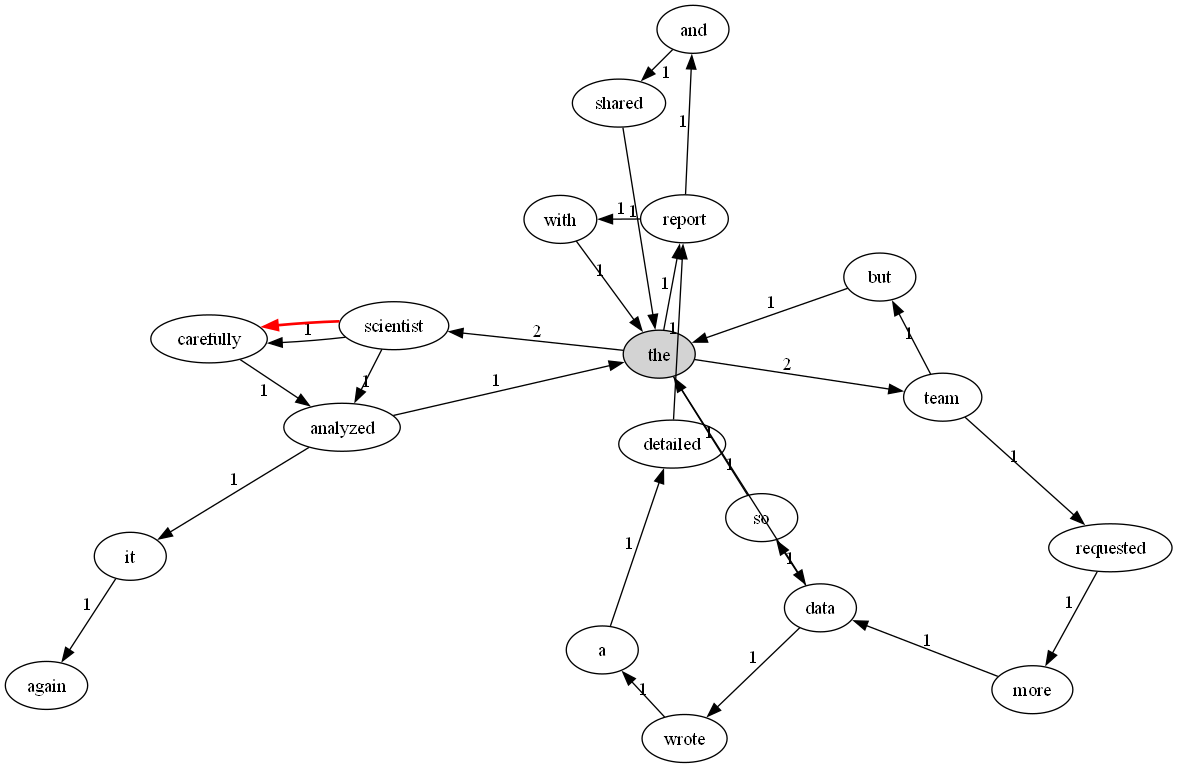
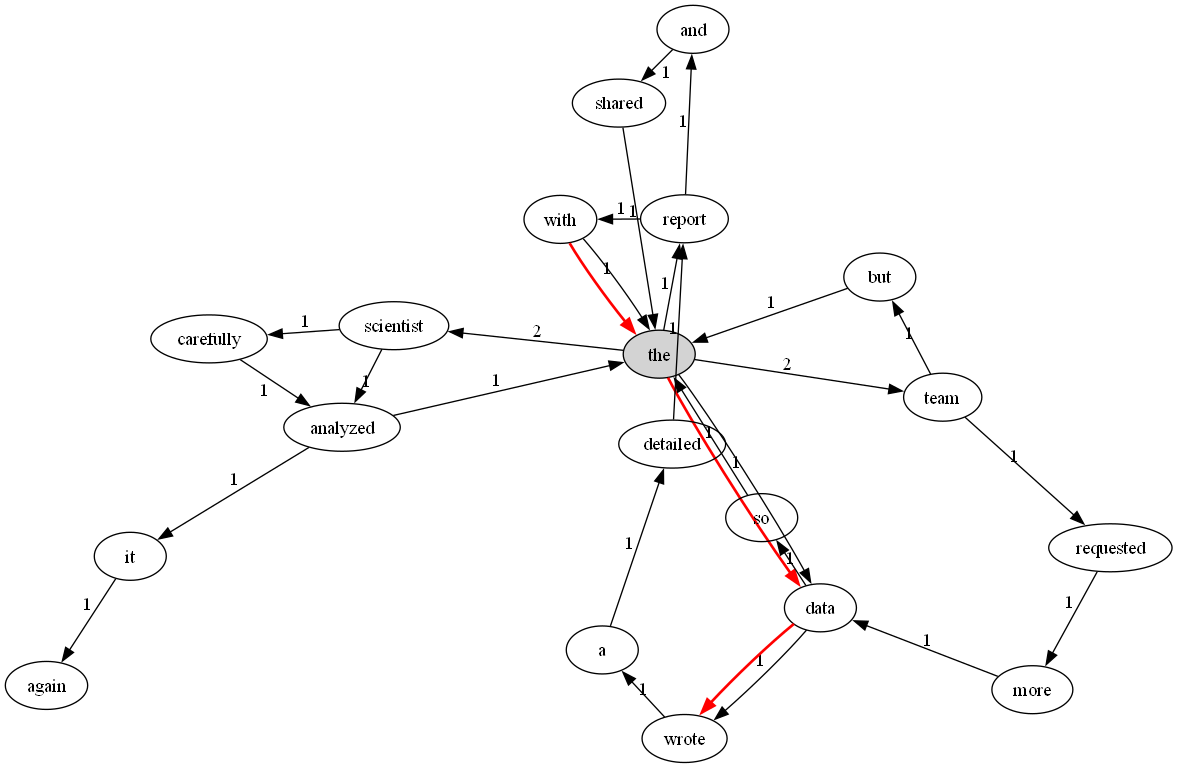
white test for calc_shortest_path

diff --git a/test/test_shortest_path.py b/test/test_shortest_path.py
@@ -1,0 +1,43 @@
+import pytest
+from lab1 import TextToGraph
+import os
+
+@pytest.fixture
+def graph():
+    """创建测试用的图实例"""
+    graph = TextToGraph()
+    test_file = os.path.join("test", "test_shortest_path.txt")
+    graph.build_directed_graph(test_file)
+    return graph
+
+def test_no_path(graph):
+    """测试用例1：两个节点之间没有路径"""
+    result = graph.calc_shortest_path("again", "the", 1, "with")
+    assert result is None
+
+def test_path_with_multiple_steps(graph):
+    """测试用例2：两个节点之间有多个步骤的路径"""
+    result = graph.calc_shortest_path("with", "wrote", 2, "with")
+    assert result is not None
+    assert len(result) == 1
+    path, length = result[0]
+    assert path == ['with', 'the', 'data', 'wrote']
+    assert length == 3
+
+def test_direct_path(graph):
+    """测试用例3：两个节点之间有直接路径"""
+    result = graph.calc_shortest_path("the", "data", 3, "with")
+    assert result is not None
+    assert len(result) == 1
+    path, length = result[0]
+    assert path == ['the', 'data']
+    assert length == 1
+
+def test_path_with_two_steps(graph):
+    """测试用例4：两个节点之间有两个步骤的路径"""
+    result = graph.calc_shortest_path("analyzed", "again", 4, "with")
+    assert result is not None
+    assert len(result) == 1
+    path, length = result[0]
+    assert path == ['analyzed', 'it', 'again']
+    assert length == 2 

diff --git a/test_calc_shortest_path.py b/test_calc_shortest_path.py
@@ -1,0 +1,45 @@
+import pytest
+from lab1 import TextToGraph
+import os
+
+@pytest.fixture
+def graph():
+    tg = TextToGraph()
+    file_path = "./test/Easy Test.txt"
+    dot_file_path = "./graph/directed_graph.dot"
+    # 手动构造有向图
+ 
+    tg.show_directed_graph(file_path, dot_file_path, "")
+    return tg
+
+def test_case_1(graph):
+    """测试用例1：两个节点之间没有路径"""
+    result = graph.calc_shortest_path("again", "the", 1, "the")
+    assert result is None
+
+def test_case_2(graph):
+    """测试用例2：两个节点之间有多个步骤的路径"""
+    result = graph.calc_shortest_path("with", "wrote", 2, "the")
+    assert result is not None
+    assert len(result) == 1
+    path, length = result[0]
+    assert path == ['with', 'the', 'data', 'wrote']
+    assert length == 3
+
+def test_case_3(graph):
+    """测试用例3：两个节点之间有直接路径"""
+    result = graph.calc_shortest_path("the", "data", 3, "the")
+    assert result is not None
+    assert len(result) == 1
+    path, length = result[0]
+    assert path == ['the', 'data']
+    assert length == 1
+
+def test_case_4(graph):
+    """测试用例4：两个节点之间有两个步骤的路径"""
+    result = graph.calc_shortest_path("analyzed", "again", 4, "the")
+    assert result is not None
+    assert len(result) == 1
+    path, length = result[0]
+    assert path == ['analyzed', 'it', 'again']
+    assert length == 2

diff --git a/lab1.py b/lab1.py
@@ -178,8 +178,8 @@ class TextToGraph:
         all_paths = self.find_all_paths(word1, word2, set(), [], 0)
 
         if not all_paths:
+            print("两节点之间没有最短路径")
             return None
-
         # print(f"The path between {word1} {word2} is: ")
         # for path, length in all_paths:
         #     print(f"Path: {' -> '.join(path)}, Length: {length}")
@@ -189,7 +189,7 @@ class TextToGraph:
 
         dot_file_path = f"./graph/directed_graph_shortest{i}.dot"
         self.create_dot_file(dot_file_path, shortest_paths, root)
-
+        print(f"两节点之间最短路径及其长度为：{shortest_paths}")
         return shortest_paths
 
     def page_rank(self, text, d: float = 0.85, max_iterations: int = 100, tol: float = 1e-6, use_tfidf: bool = True) -> Dict[str, float]:

diff --git a/test_query_bridge_words.py b/test_query_bridge_words.py
@@ -52,10 +52,18 @@ def test_case_6(graph, capsys):
     captured = capsys.readouterr().out
     assert result is None
     assert "@” 不是合法的小写单词" in captured
+    result = graph.query_bridge_words("so", "@")
+    captured = capsys.readouterr().out
+    assert result is None
+    assert "@” 不是合法的小写单词" in captured
 
 def test_case_7(graph, capsys):
     # ("the", "")，字符数小于2
     result = graph.query_bridge_words("the", "")
+    captured = capsys.readouterr().out
+    assert result is None
+    assert "单词不能为空" in captured
+    result = graph.query_bridge_words("", "the")
     captured = capsys.readouterr().out
     assert result is None
     assert "单词不能为空" in captured
